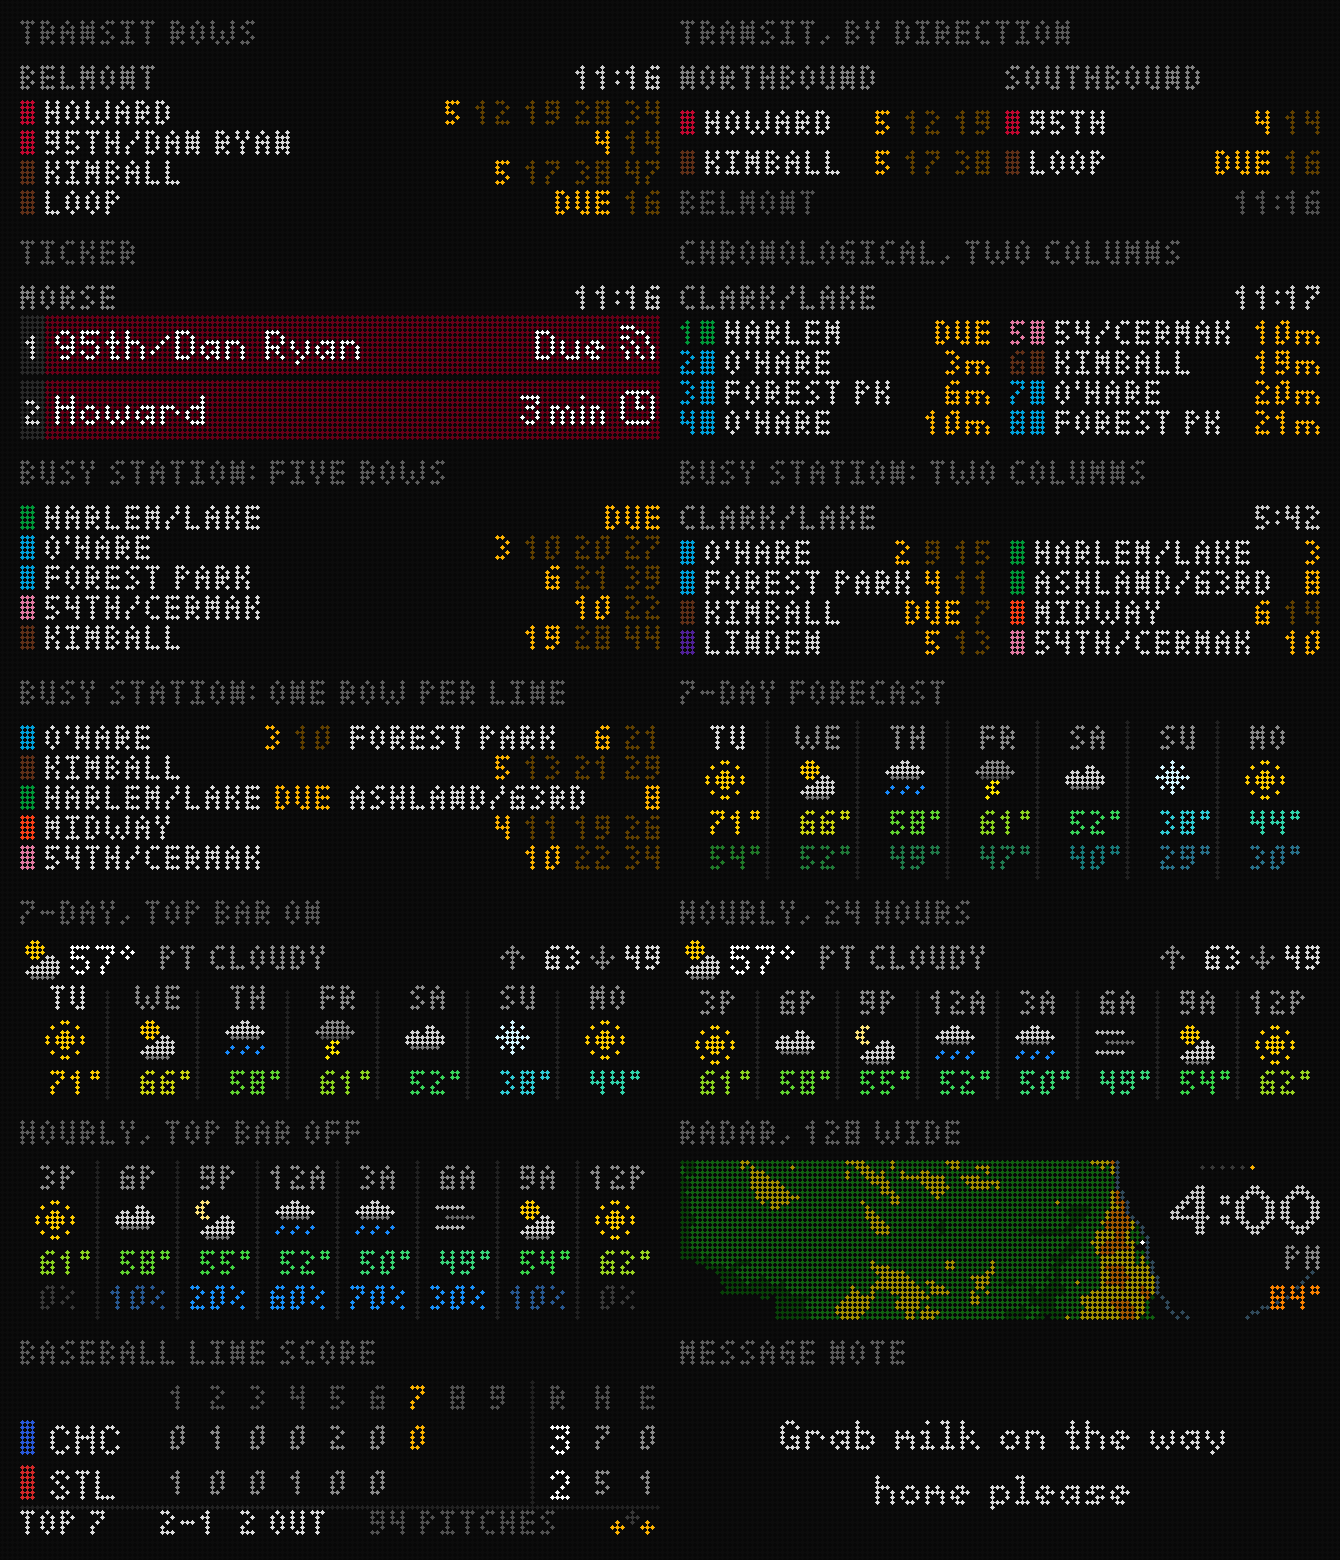
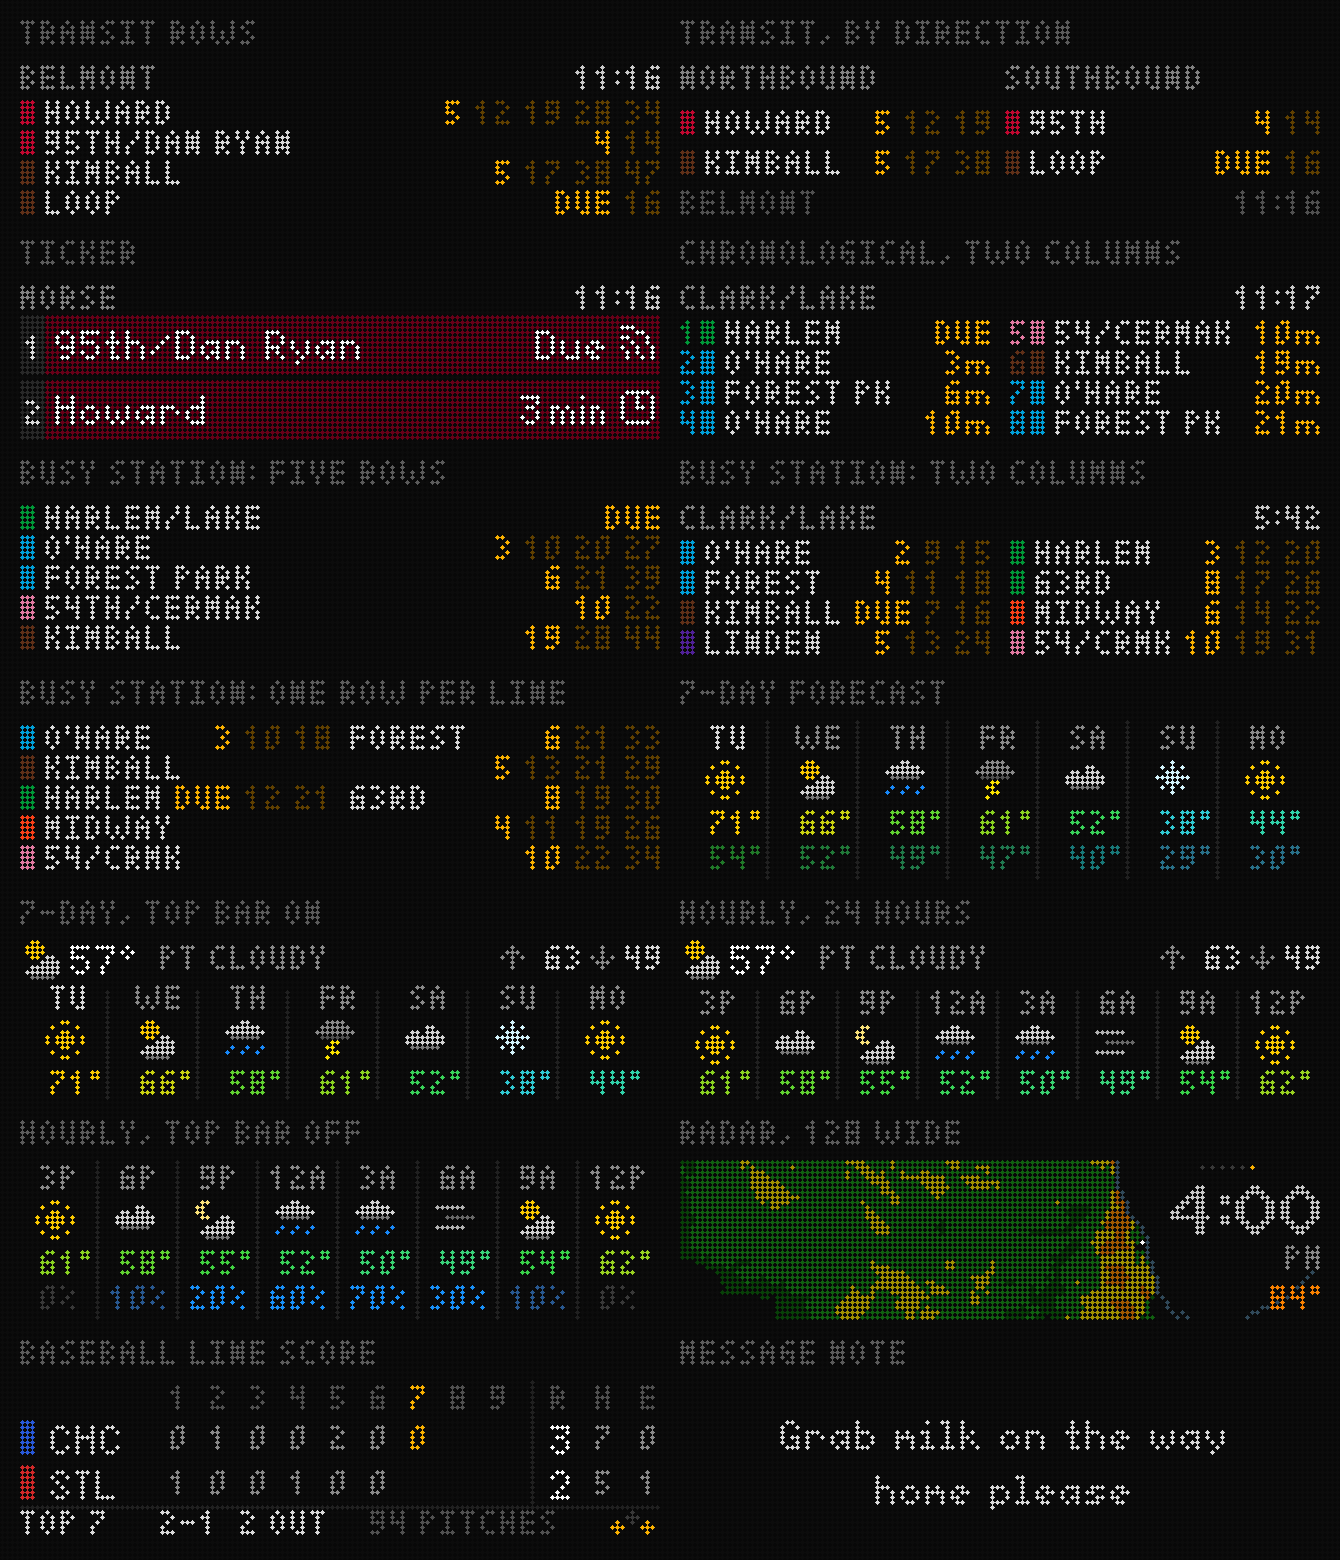
Use the 64 board's short destination names in the busy-station layouts
Two columns and one row per line now use destinations.js short names
(HARLEM, 63RD, FOREST, 54/CRMK), so every row keeps three times.

Claude-Session: https://claude.ai/code/session_01G1nRWyZ7ESNyz7GfjXtnvu

diff --git a/scripts/mock-128-screens.js b/scripts/mock-128-screens.js
@@ -162,16 +162,17 @@ function transitColumns() {
   const f = new Frame(W, H);
   f.text('small', 'CLARK/LAKE', 0, 6, C.head);
   rtext(f, 'small', '5:42', 127, 6, C.clock);
-  const rows = [['BL', "O'HARE", [2, 9, 15]], ['BL', 'FOREST PARK', [4, 11]], ['BR', 'KIMBALL', ['DUE', 7]], ['PR', 'LINDEN', [5, 13]],
-    ['GR', 'HARLEM/LAKE', [3, 12]], ['GR', 'ASHLAND/63RD', [8]], ['OR', 'MIDWAY', [6, 14]], ['PK', '54TH/CERMAK', [10, 19]]];
+  // The 64 board's short names (destinations.js), so each row keeps three times.
+  const rows = [['BL', "O'HARE", [2, 9, 15]], ['BL', 'FOREST', [4, 11, 18]], ['BR', 'KIMBALL', ['DUE', 7, 16]], ['PR', 'LINDEN', [5, 13, 24]],
+    ['GR', 'HARLEM', [3, 12, 20]], ['GR', '63RD', [8, 17, 26]], ['OR', 'MIDWAY', [6, 14, 22]], ['PK', '54/CRMK', [10, 19, 31]]];
   rows.forEach((r, i) => destRow(f, i < 4 ? 0 : 66, i < 4 ? 61 : 127, 8 + (i % 4) * 6, r));
   return f;
 }
 // One row per line; a line's second destination starts at column 66. Clark/Lake midday (made up).
 function transitByLine() {
   const f = new Frame(W, H);
-  const lines = [['BL', [["O'HARE", [3, 10]], ['FOREST PARK', [6, 21]]]], ['BR', [['KIMBALL', [5, 13, 21, 29]]]],
-    ['GR', [['HARLEM/LAKE', ['DUE', 12]], ['ASHLAND/63RD', [8]]]], ['OR', [['MIDWAY', [4, 11, 19, 26]]]], ['PK', [['54TH/CERMAK', [10, 22, 34]]]]];
+  const lines = [['BL', [["O'HARE", [3, 10, 18]], ['FOREST', [6, 21, 33]]]], ['BR', [['KIMBALL', [5, 13, 21, 29]]]],
+    ['GR', [['HARLEM', ['DUE', 12, 21]], ['63RD', [8, 19, 30]]]], ['OR', [['MIDWAY', [4, 11, 19, 26]]]], ['PK', [['54/CRMK', [10, 22, 34]]]]];
   lines.forEach(([ln, dests], i) => {
     const top = 1 + i * 6;
     f.fill(0, top, 3, 5, LINE[ln]);
@@ -315,8 +316,8 @@ async function main() {
     ['redrawn', 'ticker', 'Ticker', 'After the CTA platform signs: the row number in the grey column, the full destination, the time at the far right, then the live-train signal, or a clock for a scheduled train (row 2).', 'Real Morse times; the Howard train is marked scheduled here to show the clock.', ticker()],
     ['redrawn', 'chrono', 'Chronological, two columns', 'Eight trains instead of four, with full names (FOREST PK, 54/CERMAK).', 'Real Clark/Lake times.', chrono()],
     ['redrawn', 'transit-five', 'Busy station: five rows', 'Clark/Lake\'s five destinations as destination rows with full names and up to four times; the header drops to make room, as it does on the 64 board.', 'Real Clark/Lake times.', transitFive()],
-    ['redrawn', 'transit-columns', 'Busy station: two columns', 'Eight destinations in two columns of four under the header: Clark/Lake at rush. Long names leave room for one or two times.', 'Made-up times.', transitColumns()],
-    ['redrawn', 'transit-byline', 'Busy station: one row per line', 'Five lines on five rows; a line with two destinations puts the second at the halfway mark (Blue: O\'Hare and Forest Park).', 'Made-up times. Seven destinations, no paging.', transitByLine()],
+    ['redrawn', 'transit-columns', 'Busy station: two columns', 'Eight destinations in two columns of four under the header: Clark/Lake at rush. With the 64 board\'s short names (HARLEM, 63RD, 54/CRMK) every row keeps three times.', 'Made-up times.', transitColumns()],
+    ['redrawn', 'transit-byline', 'Busy station: one row per line', 'Five lines on five rows; a line with two destinations puts the second at the halfway mark (Blue: O\'HARE and FOREST). Short names, as on the 64 board.', 'Made-up times. Seven destinations, no paging.', transitByLine()],
     ['redrawn', 'seven-day', '7-day forecast', 'Seven columns with highs and lows; the 64 screen shows five days and highs only.', 'NWS gives seven days already.', sevenDay()],
     ['redrawn', 'seven-day-top', '7-day, top bar on', 'The current-conditions bar as an option: with it on, the lows drop out.', '', sevenDay({ top: true })],
     ['redrawn', 'hourly', 'Hourly, 24 hours', 'Eight 3-hour steps under the top bar.', 'The server builds 4 slots today (HOUR_STEPS); the NWS hourly feed covers more.', hourly()],
